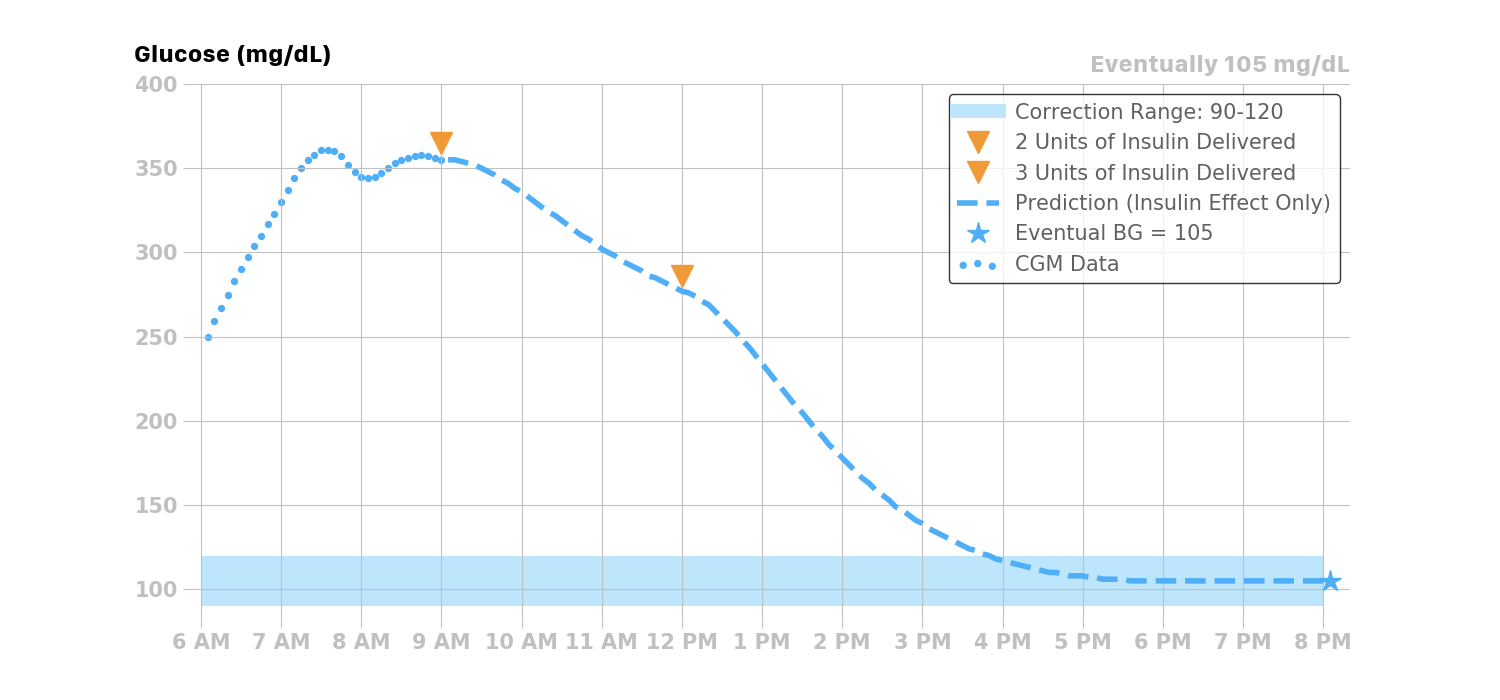
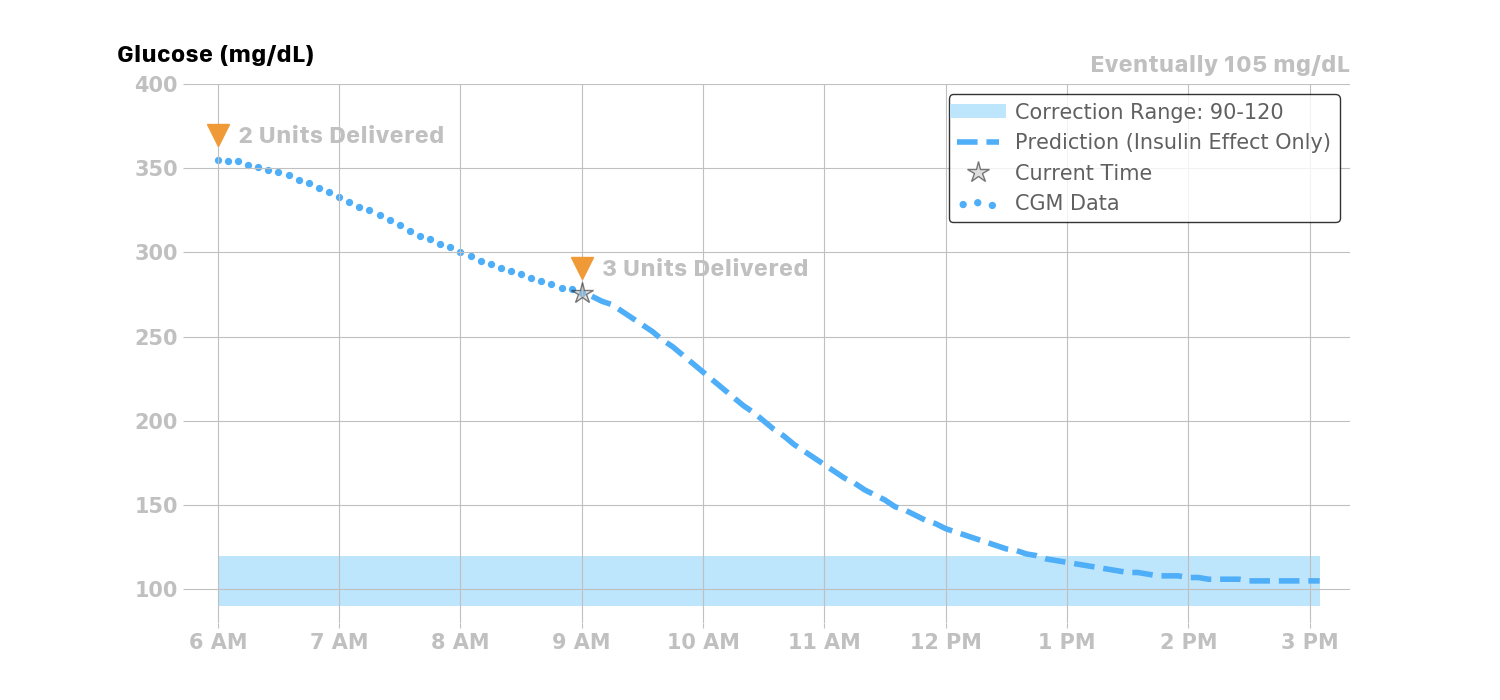
change the figure so that the boluses occur before the current time
this can/should be refactored at some point because it is not the easiest to follow code

diff --git a/projects/loop-algorithm/loopTempBasalLogic-TwoInsulinBoluses.py b/projects/loop-algorithm/loopTempBasalLogic-TwoInsulinBoluses.py
@@ -393,19 +393,22 @@ plt.close('all')
 
 
 # %% now show example with the previous plot
-
-# specify the CGM Data (in minutes and mg/dL)
-cgmTimes =  [5,    30, 60, 75, 100, 120, 150, 180]
-cgmValues = [250, 290, 330, 350, 360, 345, 355, 355]
-simulatedTime, simulatedCgm = simulate_cgm_data(cgmTimes, cgmValues, amountOfWiggle=2)
-
 # specify the time you want the simulation to start
 startTimeHour = 6
 startTimeAMPM = "AM"
 
 ## %% apply the insulin effect
-predictedTime = np.arange(185, 185 + len(cumulativeInsulinEffect) * 5, 5)
+predictedTime = np.arange(0, len(cumulativeInsulinEffect) * 5, 5)
 predictedCgm = 355 + np.round(cumulativeInsulinEffect["cumulativeGlucoseEffect"].values)
+
+# specify the CGM Data (in minutes and mg/dL)
+cgmTimes =  predictedTime[range(0, 45, 9)]
+cgmValues = predictedCgm[range(0, 45, 9)]
+simulatedTime, simulatedCgm = simulate_cgm_data(cgmTimes, cgmValues, amountOfWiggle=3)
+
+## %% filter the predicted time to NOT overlap with the cgm data
+predictedTime = predictedTime[37:110]
+predictedCgm = predictedCgm[37:110]
 
 # make the figure
 figureName = "insulin-effect-example"
@@ -426,25 +429,21 @@ ax.fill_between(np.arange(0, (len(simulatedCgm) + len(predictedCgm)) * 5, 5),
 ax.plot([], [], color='#bde5fc', linewidth=10,
         label="Correction Range: %d-%d" % (correction_min, correction_max))
 
-## show the insulin delivered
-#ax.plot(predictedTime[0] - 5, predictedCgm[0] + 5,
-#        marker='v', markersize=16, color="#f09a37",
-#        ls="None", label="%d Units of Insulin Delivered" % insulinAmount)
 
-# show the insulin delivered
-for bolusNumber in range(len(insulinAmount)):
-    ax.plot(180 + deliveryTimeHoursRelativeToFirstDelivery[bolusNumber] * 60,
-            cumulativeInsulinEffect.loc[int(deliveryTimeHoursRelativeToFirstDelivery[bolusNumber] * 60 / 5), "cumulativeGlucoseEffect"] + 365,
-            marker='v', markersize=16, color="#f09a37",
-            ls="None", label="%d Units of Insulin Delivered" % insulinAmount[bolusNumber])
+
 
 # plot predicted cgm
 ax.plot(predictedTime, predictedCgm, linestyle="--", color="#4faef8", lw=4, label="Prediction (Insulin Effect Only)")
 
-# plot eventual bg
-ax.plot(predictedTime[-1], predictedCgm[-1],
-        marker='*', markersize=16, color="#4faef8",
-        ls="None", label="Eventual BG = %d" % predictedCgm[-1])
+# plot the current time
+ax.plot(simulatedTime[-1], simulatedCgm[-1],
+        marker='*', markersize=16, color=coord_color, markeredgecolor = "black", alpha=0.5,
+        ls="None", label="Current Time")
+
+## plot eventual bg
+#ax.plot(predictedTime[-1], predictedCgm[-1],
+#        marker='*', markersize=16, color="#4faef8",
+#        ls="None", label="Eventual BG = %d" % predictedCgm[-1])
 
 # plot simulated cgm
 ax.scatter(simulatedTime, simulatedCgm, s=18, color="#4faef8", label="CGM Data")
@@ -454,6 +453,19 @@ leg = plt.legend(scatterpoints=3, edgecolor="black")
 for text in leg.get_texts():
     text.set_color('#606060')
     text.set_weight('normal')
+
+# show the insulin delivered
+for bolusNumber in range(len(insulinAmount)):
+    ax.plot(deliveryTimeHoursRelativeToFirstDelivery[bolusNumber] * 60,
+            cumulativeInsulinEffect.loc[int(deliveryTimeHoursRelativeToFirstDelivery[bolusNumber] * 60 / 5), "cumulativeGlucoseEffect"] + 370,
+            marker='v', markersize=16, color="#f09a37",
+            ls="None", label="%d Units of Insulin Delivered" % insulinAmount[bolusNumber])
+
+    ax.text(deliveryTimeHoursRelativeToFirstDelivery[bolusNumber] * 60 + 10,
+            cumulativeInsulinEffect.loc[int(deliveryTimeHoursRelativeToFirstDelivery[bolusNumber] * 60 / 5), "cumulativeGlucoseEffect"] + 365,
+            "%d Units Delivered" % insulinAmount[bolusNumber],
+            horizontalalignment="left", fontproperties=figureFont, size=labelFontSize, color=coord_color)
+
 
 # run the common figure elements here
 ax = common_figure_elements(ax, xLabel, yLabel, figureFont, labelFontSize, tickLabelFontSize, coord_color, yLabel_xOffset=50)
